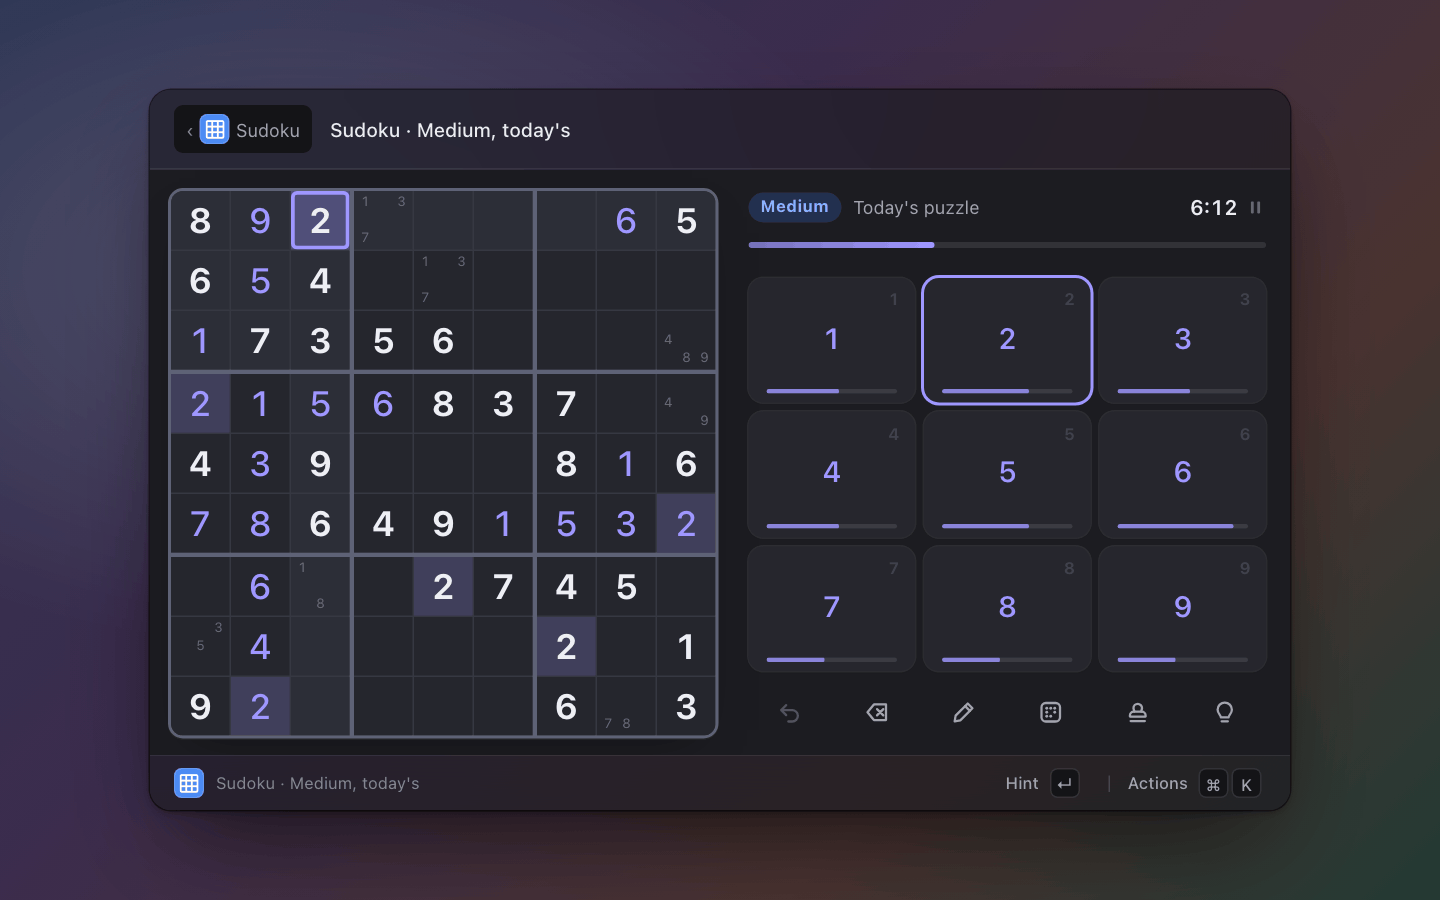
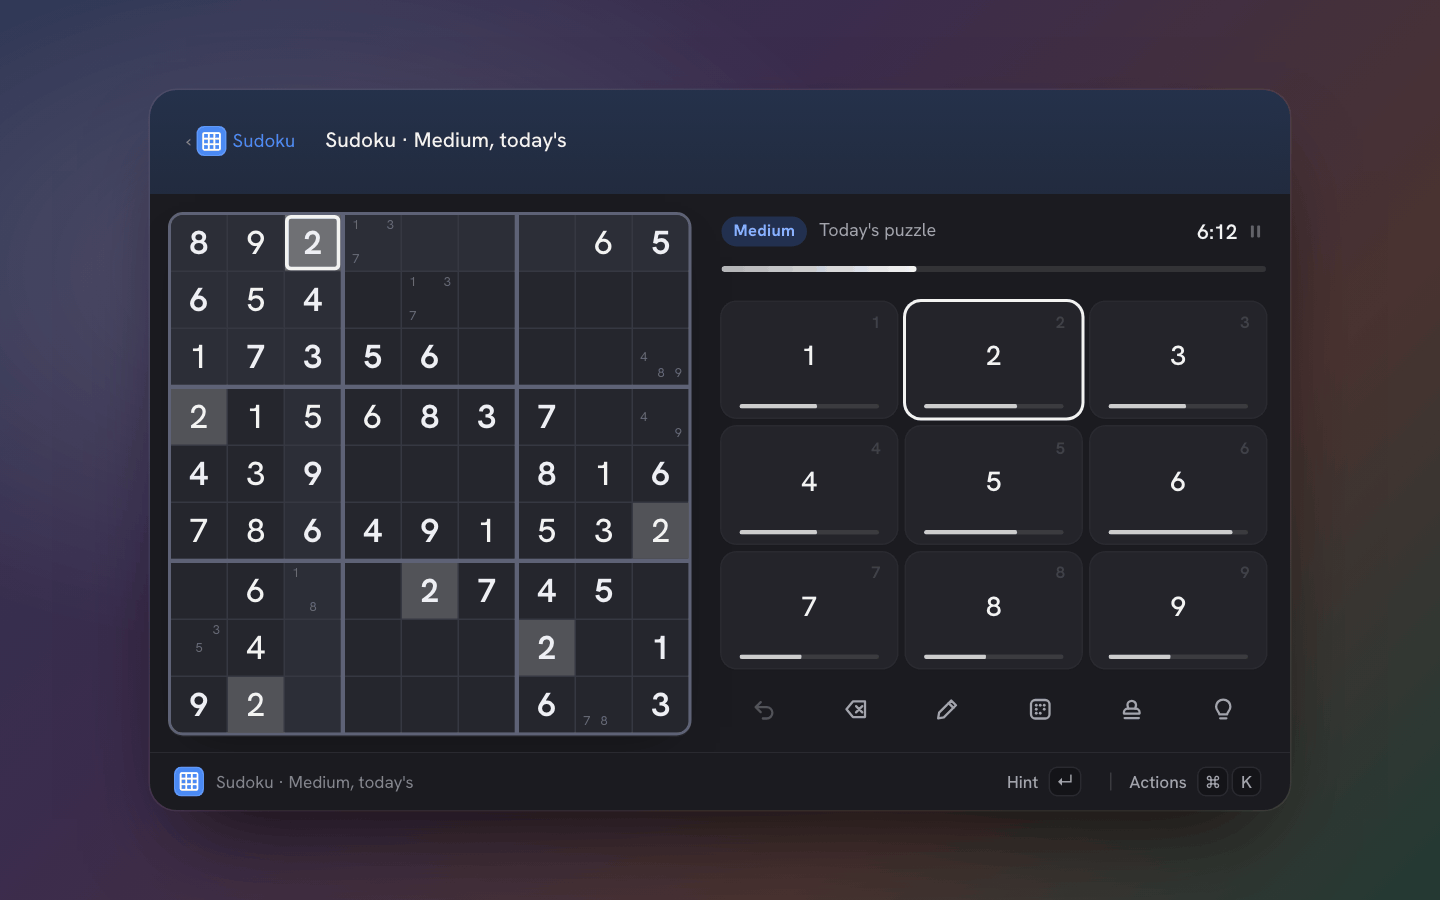
sudoku: the solve time, the peeked puzzle and the stats in the display type; radii from the panel's tokens; screenshots in Ink

diff --git a/sudoku/surface/style.css b/sudoku/surface/style.css
@@ -40,6 +40,10 @@
   --expert: #B8325D; --expert-bg: #F8DDE6;
   --ease: cubic-bezier(0.2, 0.8, 0.2, 1);
   --spring: cubic-bezier(0.3, 1.5, 0.5, 1);
+  /* The panel's display type (Ink's headline face; pal's own UI face otherwise): the solve time, the puzzle's name and the stats lead in it. */
+  --display: var(--pal-font-hero, var(--pal-font-query, var(--pal-font-ui, system-ui, sans-serif)));
+  --display-weight: var(--pal-weight-hero, 700);
+  --display-track: var(--pal-tracking-query, -0.02em);
   color-scheme: light;
 }
 :root[data-theme="dark"] {
@@ -228,7 +232,7 @@ body.solved .cell { background: var(--paper); cursor: default; }
 }
 #cover > div { display: flex; flex-direction: column; align-items: center; gap: 6px; color: var(--pal-fg-muted, #5c5c66); }
 #cover svg { width: 34px; height: 34px; fill: currentColor; stroke: none; opacity: 0.55; }
-#cover b { font-size: 17px; font-weight: 600; color: var(--pal-fg, #1A1A1F); }
+#cover b { font-family: var(--display); font-size: var(--pal-text-xl, 18px); font-weight: var(--display-weight); letter-spacing: var(--display-track); color: var(--pal-fg, #1A1A1F); }
 #cover span { font-size: 11.5px; }
 body.paused #cover { opacity: 1; pointer-events: auto; transform: none; cursor: pointer; }
 body.paused #pad, body.paused #tools { filter: blur(3px); opacity: 0.35; pointer-events: none; }
@@ -347,7 +351,7 @@ body.solved #progress i { background: var(--gold); }
 @keyframes swap { from { opacity: 0; transform: translateY(4px); } }
 #nearly {
   grid-area: hint; align-self: center; z-index: 2; height: 24px; display: flex; align-items: center; gap: 6px; padding: 0 10px; white-space: nowrap; overflow: hidden;
-  border-radius: 8px; background: var(--bad-bg); color: var(--pal-fg, #1A1A1F); font-size: 12px;
+  border-radius: var(--pal-radius-control, 8px); background: var(--bad-bg); color: var(--pal-fg, #1A1A1F); font-size: 12px;
 }
 #nearly b { font-weight: 650; color: var(--bad); }
 #nearly.in { animation: rise 260ms var(--spring); }
@@ -386,14 +390,14 @@ body.finished #pad, body.finished #tools { opacity: 0; transform: translateY(6px
 @keyframes stamp { from { transform: scale(0.3); opacity: 0; } }
 @keyframes tick { from { stroke-dashoffset: 24; } }
 #done-what { font-size: 13px; font-weight: 600; color: var(--pal-fg-muted, #5c5c66); }
-#done-time { font: 700 46px / 1.05 var(--pal-font-ui, system-ui, sans-serif); letter-spacing: -0.03em; font-variant-numeric: tabular-nums; }
+#done-time { font: var(--display-weight) 46px / 1.05 var(--display); letter-spacing: -0.03em; font-variant-numeric: tabular-nums; }
 #done-tags { display: flex; flex-wrap: wrap; gap: 6px; min-height: 22px; margin-top: 2px; }
 #done-tags span { display: inline-flex; align-items: center; height: 22px; padding: 0 9px; border-radius: 11px; background: var(--chip); color: var(--pal-fg-muted, #5c5c66); font-size: 11.5px; font-weight: 600; }
 #done-tags .gold, #done-tags .hot { background: var(--gold-soft); color: color-mix(in srgb, var(--gold) 70%, var(--pal-fg, #000)); }
 #done-tags .clean { background: var(--easy-bg); color: var(--easy); }
 #done-go { display: flex; gap: 6px; margin-top: 14px; flex-wrap: wrap; }
 #done-go button, .go button, #peek button {
-  display: inline-flex; align-items: center; gap: 7px; height: 30px; padding: 0 11px; border-radius: 8px;
+  display: inline-flex; align-items: center; gap: 7px; height: 30px; padding: 0 11px; border-radius: var(--pal-radius-control, 8px);
   background: var(--chip); font-size: 12.5px; font-weight: 550; transition: background 120ms, transform 120ms, filter 120ms;
 }
 #done-go button:hover, .go button:hover, #peek button:hover { filter: brightness(0.96); }
@@ -476,7 +480,7 @@ body.compact #help dd small { display: none; }
 /* ======================================================================== browse */
 #browse, #stats { display: flex; flex-direction: column; padding: 12px 16px 10px; }
 .bar { flex: none; height: 32px; display: flex; align-items: center; gap: 12px; }
-.tabs { display: flex; min-width: 0; padding: 2px; gap: 2px; background: var(--pal-bg-sunken, #EAEAEE); border-radius: 8px; }
+.tabs { display: flex; min-width: 0; padding: 2px; gap: 2px; background: var(--pal-bg-sunken, #EAEAEE); border-radius: var(--pal-radius-control, 8px); }
 .tabs button { height: 26px; padding: 0 11px; white-space: nowrap; border-radius: 6px; font-size: 12px; font-weight: 550; color: var(--pal-fg-muted, #5c5c66); transition: background 140ms, color 140ms, box-shadow 140ms; }
 .tabs button:hover { color: var(--pal-fg, #1A1A1F); }
 .tabs button.on { background: var(--pal-bg-elevated, #fff); color: var(--pal-fg, #1A1A1F); box-shadow: 0 0 0 1px var(--pal-line, #e2e2e8), 0 1px 2px rgba(0,0,0,.06); }
@@ -519,14 +523,14 @@ body.compact #help dd small { display: none; }
 .m.new { width: 6px; height: 6px; margin: 3px; background: color-mix(in srgb, var(--pal-fg, #000) 22%, transparent); }
 
 #peek {
-  flex: 1; min-width: 0; align-self: stretch; margin-bottom: 4px; padding: 16px 18px; border-radius: 12px;
+  flex: 1; min-width: 0; align-self: stretch; margin-bottom: 4px; padding: 16px 18px; border-radius: var(--pal-radius-popover, 12px);
   background: var(--pal-bg-elevated, #fff); box-shadow: 0 0 0 1px var(--pal-line, #e2e2e8);
   display: flex; flex-direction: column; align-items: flex-start; justify-content: center; gap: 4px;
 }
 #peek.swap > * { animation: swap 200ms var(--ease) both; }
 #peek .date { font-size: 11px; font-weight: 600; color: var(--pal-fg-muted, #5c5c66); display: flex; gap: 6px; align-items: center; }
 #peek .date em { font-style: normal; font-size: 10px; font-weight: 700; text-transform: uppercase; letter-spacing: 0.06em; color: var(--pal-accent, #4F46D6); }
-#peek .ttl { margin-top: 4px; font-size: 19px; font-weight: 650; letter-spacing: -0.015em; display: flex; align-items: center; gap: 8px; }
+#peek .ttl { margin-top: 4px; font-family: var(--display); font-size: 20px; font-weight: var(--display-weight); letter-spacing: var(--display-track); display: flex; align-items: center; gap: 8px; }
 #peek .facts { margin-top: 6px; font-size: 12px; }
 #peek .st { display: inline-flex; align-items: center; gap: 6px; color: var(--pal-fg-muted, #5c5c66); }
 #peek .go { margin-top: 14px; justify-content: flex-start; flex-wrap: wrap; }
@@ -536,7 +540,7 @@ body.compact #help dd small { display: none; }
 #list { padding-top: 10px; }
 #list.busy #rows { opacity: 0.6; }
 #rows { list-style: none; margin: 0; padding: 0; height: 100%; overflow-y: auto; scrollbar-width: none; }
-#rows li { display: grid; grid-template-columns: 16px 66px minmax(0, 1fr) 48px 52px; gap: 10px; align-items: center; height: 32px; padding: 0 10px; border-radius: 7px; cursor: pointer; font-size: 12.5px; transition: background 120ms; }
+#rows li { display: grid; grid-template-columns: 16px 66px minmax(0, 1fr) 48px 52px; gap: 10px; align-items: center; height: 32px; padding: 0 10px; border-radius: var(--pal-radius-row, 7px); cursor: pointer; font-size: 12.5px; transition: background 120ms; }
 #rows li:hover { background: var(--pal-bg-sunken, #EAEAEE); }
 #rows li.cur { background: var(--pal-accent-soft, rgba(79,70,214,.12)); }
 #rows .chip { justify-self: start; }
@@ -558,9 +562,9 @@ body.compact #browse-keys .long { display: none; }
 /* ======================================================================== stats */
 #stats-body { flex: 1; min-height: 0; display: grid; grid-template-rows: auto auto minmax(0, 1fr); gap: 12px; padding-top: 10px; }
 #tiles { display: grid; grid-template-columns: repeat(5, minmax(0, 1fr)); gap: 8px; }
-.tile { padding: 9px 11px 8px; border-radius: 10px; background: var(--pal-bg-elevated, #fff); box-shadow: 0 0 0 1px var(--pal-line, #e2e2e8); display: flex; flex-direction: column; gap: 1px; min-width: 0; }
+.tile { padding: 9px 11px 8px; border-radius: var(--pal-radius-tile, 10px); background: var(--pal-bg-elevated, #fff); box-shadow: 0 0 0 1px var(--pal-line, #e2e2e8); display: flex; flex-direction: column; gap: 1px; min-width: 0; }
 .tile .lbl { font-size: 10px; font-weight: 700; letter-spacing: 0.07em; text-transform: uppercase; color: var(--pal-fg-faint, #8e8e98); white-space: nowrap; }
-.tile b { font-size: 21px; font-weight: 700; letter-spacing: -0.02em; font-variant-numeric: tabular-nums; line-height: 1.2; }
+.tile b { font-family: var(--display); font-size: 22px; font-weight: var(--display-weight); letter-spacing: var(--display-track); font-variant-numeric: tabular-nums; line-height: 1.2; }
 .tile b small { font-size: 11px; font-weight: 600; margin-left: 3px; color: var(--pal-fg-muted, #5c5c66); letter-spacing: 0; }
 .tile .sub { font-size: 10.5px; color: var(--pal-fg-muted, #5c5c66); white-space: nowrap; overflow: hidden; text-overflow: ellipsis; min-height: 14px; }
 .tile.hot b { color: var(--gold); }
@@ -605,7 +609,7 @@ body.compact #stats .heading { display: none; }
 }
 @keyframes shimmer { from { background-position: 100% 0; } to { background-position: -50% 0; } }
 #note {
-  position: fixed; left: 50%; bottom: 14px; z-index: 11; transform: translateX(-50%); padding: 7px 14px; border-radius: 9px; white-space: nowrap;
+  position: fixed; left: 50%; bottom: 14px; z-index: 11; transform: translateX(-50%); padding: 7px 14px; border-radius: var(--pal-radius-hud, 9px); white-space: nowrap;
   background: var(--pal-bg-elevated, #fff); box-shadow: var(--pal-shadow-popover, 0 10px 40px rgba(0,0,0,.2)); font-size: 12px; font-weight: 550;
 }
 #note.in { animation: note 2600ms var(--ease) forwards; }
